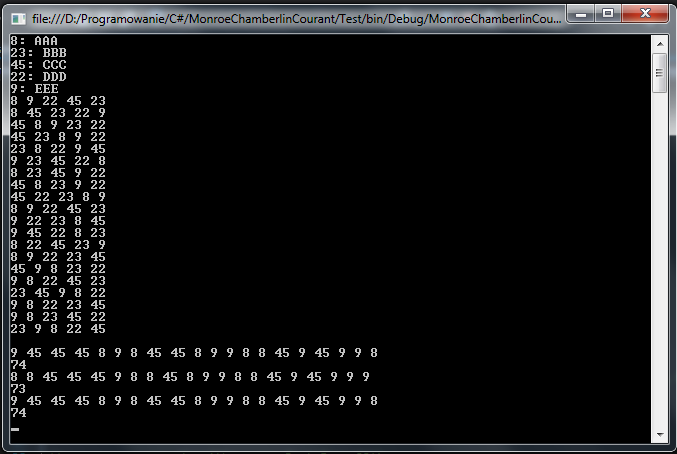
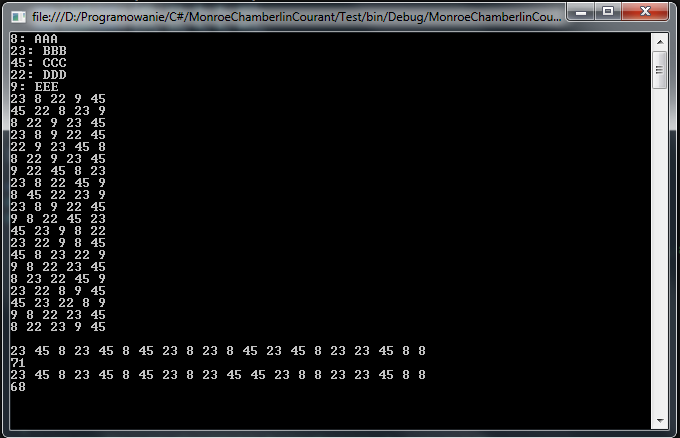
Fixed screenshot once again.

Changed region(s): [[0.0, 0.0, 1.0, 1.0]]

diff --git a/Test/Test.cs b/Test/Test.cs
@@ -1,5 +1,6 @@
 using System;
 using System.Collections.Generic;
+using System.Linq.Expressions;
 using MonroeChamberlinCourant.Algorithms;
 using MonroeChamberlinCourant.Algorithms.ChamberlinCourant;
 using MonroeChamberlinCourant.Algorithms.Monroe;
@@ -24,7 +25,32 @@ namespace MonroeChamberlinCourant.Test
                 {9, new Candidate(9, "EEE")}
             };
             var generator = new PolyaStrictGenerator();
-            var preferences = generator.Generate(candidates, 20);
+//            var preferences = generator.Generate(candidates, 20);
+            var votersPreferences = new List<IList<int>>
+            {
+                new List<int> {23, 8, 22, 9, 45},
+                new List<int> {45, 22, 8, 23, 9},
+                new List<int> {8, 22, 9, 23, 45},
+                new List<int> {23, 8, 9, 22, 45},
+                new List<int> {22, 9, 23, 45, 8},
+                new List<int> {8, 22, 9, 23, 45},
+                new List<int> {9, 22, 45, 8, 23},
+                new List<int> {23, 8, 22, 45, 9},
+                new List<int> {8, 45, 22, 23, 9},
+                new List<int> {23, 8, 9, 22, 45},
+                new List<int> {9, 8, 22, 45, 23},
+                new List<int> {45, 23, 9, 8, 22},
+                new List<int> {23, 22, 9, 8, 45},
+                new List<int> {45, 8, 23, 22, 9},
+                new List<int> {9, 8, 22, 23, 45},
+                new List<int> {8, 23, 22, 45, 9},
+                new List<int> {23, 22, 8, 9, 45},
+                new List<int> {45, 23, 22, 8, 9},
+                new List<int> {9, 8, 22, 23, 45},
+                new List<int> {8, 22, 23, 9, 45}
+            };
+
+            var preferences = new Preferences(5, candidates, 20, votersPreferences);
             Console.Write(preferences);
             Console.WriteLine();
 
@@ -37,9 +63,17 @@ namespace MonroeChamberlinCourant.Test
 //            var algorithm = new BruteForceMonroe();
 //            var algorithm = new AlgorithmA();
 
+
+//            for (var i = 0; i < 1000; ++i)
+//            {
+//                var results = new AlgorithmA().Run(preferences, 3, p => -p + 4);
+//                Console.Write(ScoreCalculator.CalculateScore(results));
+//                Console.WriteLine();
+//            }
             RunAlgorithm(new AlgorithmA(), preferences);
-            RunAlgorithm(new AlgorithmCMonroe(3), preferences);
-            RunAlgorithm(new AlgorithmCMonroe(5), preferences);
+            RunAlgorithm(new AlgorithmCMonroe(1), preferences);
+//            RunAlgorithm(new AlgorithmCMonroe(2), preferences);
+//            RunAlgorithm(new AlgorithmCMonroe(3), preferences);
 
             Console.ReadKey();
         }
